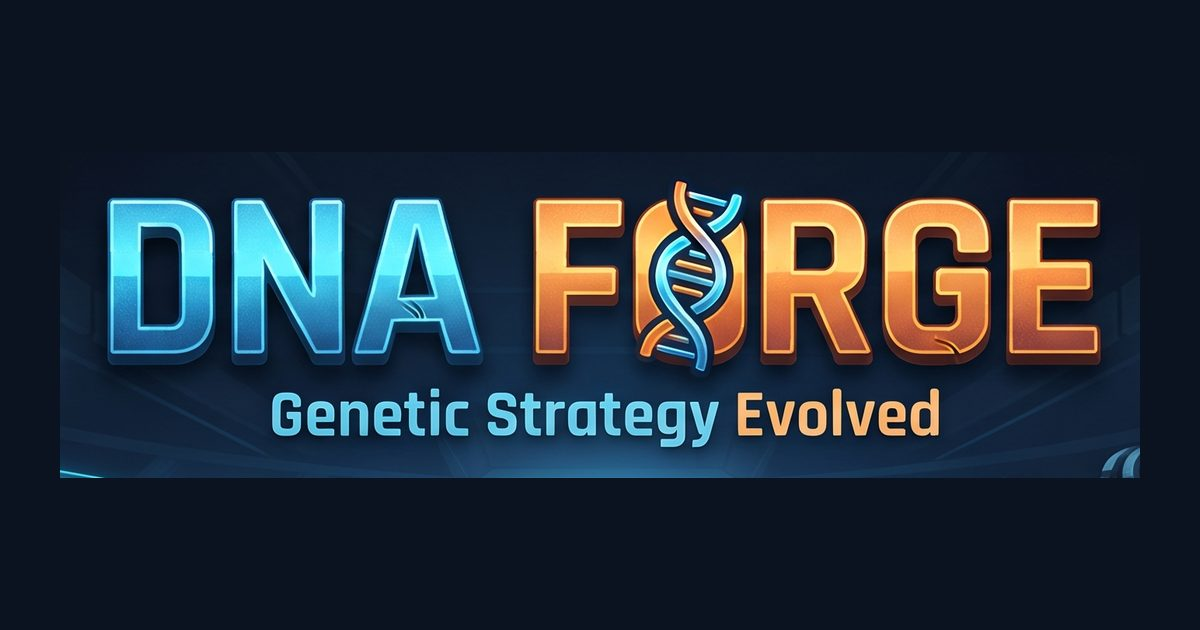
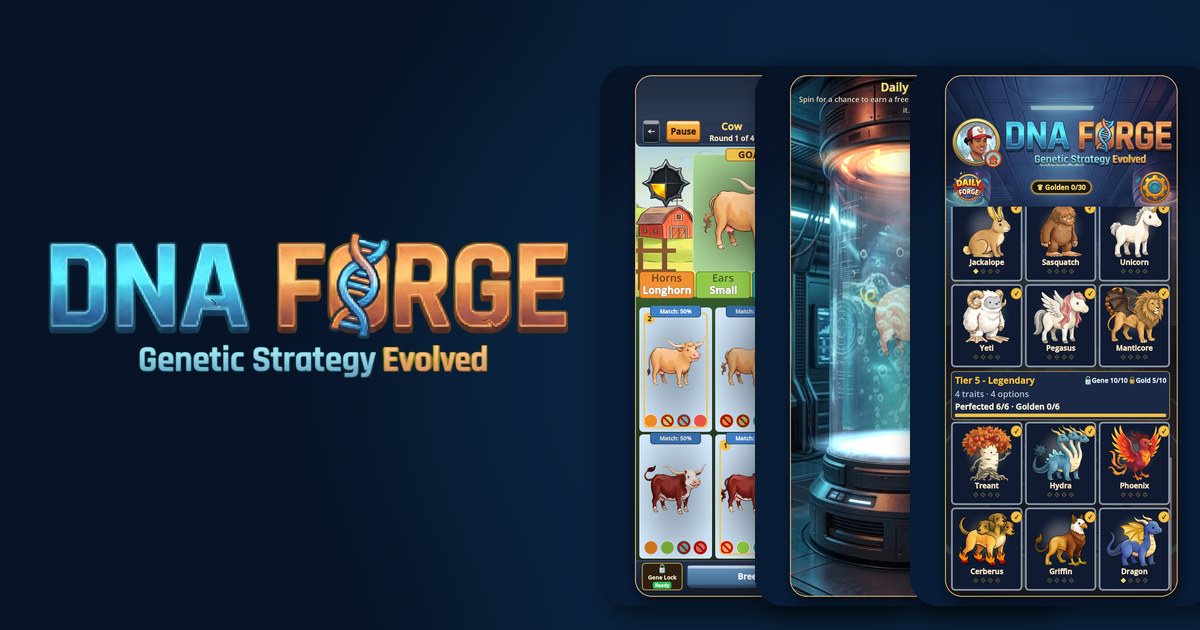
Add DNA Forge gameplay screenshots to the website.
Replace the home feature-card icon-only layout and the DNA Forge
artwork gallery with real in-game Pixel captures, and update the
DNA Forge social image. Splash art and studio branding stay in place.

diff --git a/dna-forge/index.html b/dna-forge/index.html
@@ -13,14 +13,14 @@
   <meta property="og:title" content="DNA Forge — Genetic Strategy Evolved">
   <meta property="og:description" content="A breeding puzzle for Android from Valorwright Games. In development. Free to try, no ads.">
   <meta property="og:url" content="https://valorwright.com/dna-forge/">
-  <meta property="og:image" content="https://valorwright.com/assets/og-dna-forge.jpg">
+  <meta property="og:image" content="https://valorwright.com/assets/og-dna-forge.jpg?v=2">
   <meta property="og:image:width" content="1200">
   <meta property="og:image:height" content="630">
   <meta property="og:image:alt" content="DNA Forge. Genetic Strategy Evolved.">
   <meta name="twitter:card" content="summary_large_image">
   <meta name="twitter:title" content="DNA Forge — Genetic Strategy Evolved">
   <meta name="twitter:description" content="A breeding puzzle for Android from Valorwright Games. In development. Free to try, no ads.">
-  <meta name="twitter:image" content="https://valorwright.com/assets/og-dna-forge.jpg">
+  <meta name="twitter:image" content="https://valorwright.com/assets/og-dna-forge.jpg?v=2">
   <meta name="twitter:image:alt" content="DNA Forge. Genetic Strategy Evolved.">
   <link rel="icon" href="/favicon.ico?v=3" sizes="any">
   <link rel="icon" type="image/png" href="/favicon-32.png?v=3" sizes="32x32">
@@ -28,7 +28,7 @@
   <link rel="preload" href="/fonts/cinzel-latin.woff2" as="font" type="font/woff2" crossorigin>
   <link rel="preload" href="/fonts/source-sans-3-latin.woff2" as="font" type="font/woff2" crossorigin>
   <link rel="preload" href="/assets/dna-forge-logo.webp?v=3" as="image">
-  <link rel="stylesheet" href="/css/styles.css?v=6">
+  <link rel="stylesheet" href="/css/styles.css?v=7">
 </head>
 <body class="page-game">
   <a class="skip" href="#content">Skip to content</a>
@@ -114,16 +114,42 @@
         </ul>
       </section>
 
+      <section class="section" aria-labelledby="shots-title">
+        <h2 class="section-title" id="shots-title">Screenshots</h2>
+        <div class="shot-gallery">
+          <figure>
+            <img src="/assets/screen-breed.webp" width="1080" height="1920" alt="A DNA Forge breeding screen: a goal cow at the top, six offspring below, and a Breed button." loading="lazy" decoding="async">
+            <figcaption>Breed two parents to match the goal</figcaption>
+          </figure>
+          <figure>
+            <img src="/assets/screen-predict.webp" width="1080" height="1920" alt="A DNA Forge trait-prediction screen: three cows in lab pods show 50%, 50%, and 25% match scores." loading="lazy" decoding="async">
+            <figcaption>Read the traits, then keep the best match</figcaption>
+          </figure>
+          <figure>
+            <img src="/assets/screen-goldlock.webp" width="1080" height="1920" alt="The Gold Lock screen in DNA Forge, where a player can protect a trait such as Longhorn." loading="lazy" decoding="async">
+            <figcaption>Use a Gold Lock to protect a trait</figcaption>
+          </figure>
+          <figure>
+            <img src="/assets/screen-dailypod.webp" width="1080" height="1920" alt="The Daily Pod in DNA Forge: a pig floats inside a glowing glass chamber." loading="lazy" decoding="async">
+            <figcaption>Open the Daily Pod</figcaption>
+          </figure>
+          <figure>
+            <img src="/assets/screen-tiers.webp" width="1080" height="1920" alt="The DNA Forge animal roster, showing farm animals through legendary beasts such as a griffin and a dragon." loading="lazy" decoding="async">
+            <figcaption>Farm animals up to legendary beasts</figcaption>
+          </figure>
+          <figure>
+            <img src="/assets/screen-golden.webp" width="1080" height="1920" alt="A perfect 100% match in DNA Forge: two cows side by side, labeled Perfect." loading="lazy" decoding="async">
+            <figcaption>Land a 100% match</figcaption>
+          </figure>
+        </div>
+      </section>
+
       <section aria-labelledby="art-title">
         <h2 class="section-title" id="art-title">Artwork</h2>
-        <div class="gallery">
+        <div class="gallery art-gallery">
           <figure>
             <img src="/assets/dna-forge-splash.webp" width="800" height="1778" alt="Splash art for DNA Forge: a blue genetics laboratory, with glowing DNA helixes in glass columns and on the consoles." loading="lazy" decoding="async">
             <figcaption>Splash art</figcaption>
-          </figure>
-          <figure>
-            <img src="/assets/dna-forge-main.webp" width="800" height="1422" alt="Main screen artwork from DNA Forge: a watercolor hillside at sunset, with a vine-covered stone tower, a griffin, a dragon, a stone bridge, and wildflowers." loading="lazy" decoding="async">
-            <figcaption>Main screen</figcaption>
           </figure>
         </div>
       </section>

diff --git a/index.html b/index.html
@@ -28,7 +28,7 @@
   <link rel="preload" href="/fonts/cinzel-latin.woff2" as="font" type="font/woff2" crossorigin>
   <link rel="preload" href="/fonts/source-sans-3-latin.woff2" as="font" type="font/woff2" crossorigin>
   <link rel="preload" href="/assets/logo.webp" as="image">
-  <link rel="stylesheet" href="/css/styles.css?v=6">
+  <link rel="stylesheet" href="/css/styles.css?v=7">
   <script type="application/ld+json">
   {
     "@context": "https://schema.org",
@@ -87,13 +87,16 @@
         <h2 class="section-title" id="featured-title">Featured game</h2>
         <article class="game-card">
           <a href="/dna-forge/">
-            <img src="/assets/dna-forge-icon.webp" width="512" height="512" alt="" loading="lazy" decoding="async">
-            <div>
-              <p class="kicker">In development · Android</p>
-              <h3>DNA Forge</h3>
-              <p class="card-tag">Genetic Strategy Evolved</p>
-              <p class="card-copy">Breed the perfect creature. Pick your parents, read the traits, and forge the goal look before your turns run out.</p>
-              <p class="cta">View the game</p>
+            <img class="card-feature" src="/assets/dna-forge-feature.webp" width="1600" height="720" alt="Gameplay from DNA Forge: breeding a cow to match the goal, the Daily Pod, and a perfect 100% match." loading="lazy" decoding="async">
+            <div class="card-body">
+              <img class="card-icon" src="/assets/dna-forge-icon.webp" width="512" height="512" alt="" loading="lazy" decoding="async">
+              <div>
+                <p class="kicker">In development · Android</p>
+                <h3>DNA Forge</h3>
+                <p class="card-tag">Genetic Strategy Evolved</p>
+                <p class="card-copy">Breed the perfect creature. Pick your parents, read the traits, and forge the goal look before your turns run out.</p>
+                <p class="cta">View the game</p>
+              </div>
             </div>
           </a>
         </article>

diff --git a/css/styles.css b/css/styles.css
@@ -323,8 +323,23 @@ nav a[aria-current="page"] {
   color: inherit;
 }
 
-.game-card img {
-  width: 6.25rem;
+.game-card .card-feature {
+  width: 100%;
+  height: auto;
+  border-radius: 0.7rem;
+  justify-self: stretch;
+}
+
+.game-card .card-body {
+  display: grid;
+  grid-template-columns: auto 1fr;
+  gap: 0.9rem 1.15rem;
+  align-items: center;
+}
+
+.game-card .card-icon {
+  width: 4.75rem;
+  height: auto;
   justify-self: center;
 }
 
@@ -640,6 +655,38 @@ body.page-game {
   font-size: 0.95rem;
 }
 
+.shot-gallery {
+  display: grid;
+  grid-template-columns: repeat(2, minmax(0, 1fr));
+  gap: 1rem 0.85rem;
+}
+
+.shot-gallery figure {
+  margin: 0;
+}
+
+.shot-gallery img {
+  display: block;
+  width: 100%;
+  height: auto;
+  border-radius: 0.85rem;
+  border: 1px solid rgba(182, 236, 248, 0.22);
+  box-shadow: 0 12px 28px rgba(0, 8, 24, 0.35);
+  background: #071428;
+}
+
+.shot-gallery figcaption {
+  margin-top: 0.4rem;
+  color: var(--lab-muted);
+  font-size: 0.9rem;
+  line-height: 1.35;
+}
+
+.art-gallery {
+  max-width: 22rem;
+  margin-inline: auto;
+}
+
 .back {
   margin: 2rem 0 0;
 }
@@ -774,13 +821,13 @@ body.page-game {
   }
 
   .game-card a {
-    grid-template-columns: auto 1fr;
-    gap: 1.5rem;
+    grid-template-columns: 1fr;
+    gap: 1.25rem;
     padding: 1.35rem 1.5rem;
   }
 
-  .game-card img {
-    width: 7.5rem;
+  .game-card .card-icon {
+    width: 6.5rem;
   }
 
   .split {
@@ -793,6 +840,16 @@ body.page-game {
     grid-template-columns: 1fr 1fr;
     align-items: start;
     gap: 1.5rem;
+  }
+
+  .shot-gallery {
+    grid-template-columns: repeat(3, minmax(0, 1fr));
+    gap: 1.25rem 1.1rem;
+  }
+
+  .art-gallery {
+    max-width: 24rem;
+    margin-inline: auto;
   }
 }
 

diff --git a/404.html b/404.html
@@ -26,7 +26,7 @@
   <link rel="apple-touch-icon" href="/apple-touch-icon.png?v=3">
   <link rel="preload" href="/fonts/cinzel-latin.woff2" as="font" type="font/woff2" crossorigin>
   <link rel="preload" href="/fonts/source-sans-3-latin.woff2" as="font" type="font/woff2" crossorigin>
-  <link rel="stylesheet" href="/css/styles.css?v=6">
+  <link rel="stylesheet" href="/css/styles.css?v=7">
 </head>
 <body>
   <a class="skip" href="#content">Skip to content</a>

diff --git a/privacy/index.html b/privacy/index.html
@@ -27,7 +27,7 @@
   <link rel="apple-touch-icon" href="/apple-touch-icon.png?v=3">
   <link rel="preload" href="/fonts/cinzel-latin.woff2" as="font" type="font/woff2" crossorigin>
   <link rel="preload" href="/fonts/source-sans-3-latin.woff2" as="font" type="font/woff2" crossorigin>
-  <link rel="stylesheet" href="/css/styles.css?v=6">
+  <link rel="stylesheet" href="/css/styles.css?v=7">
 </head>
 <body>
   <a class="skip" href="#content">Skip to content</a>
